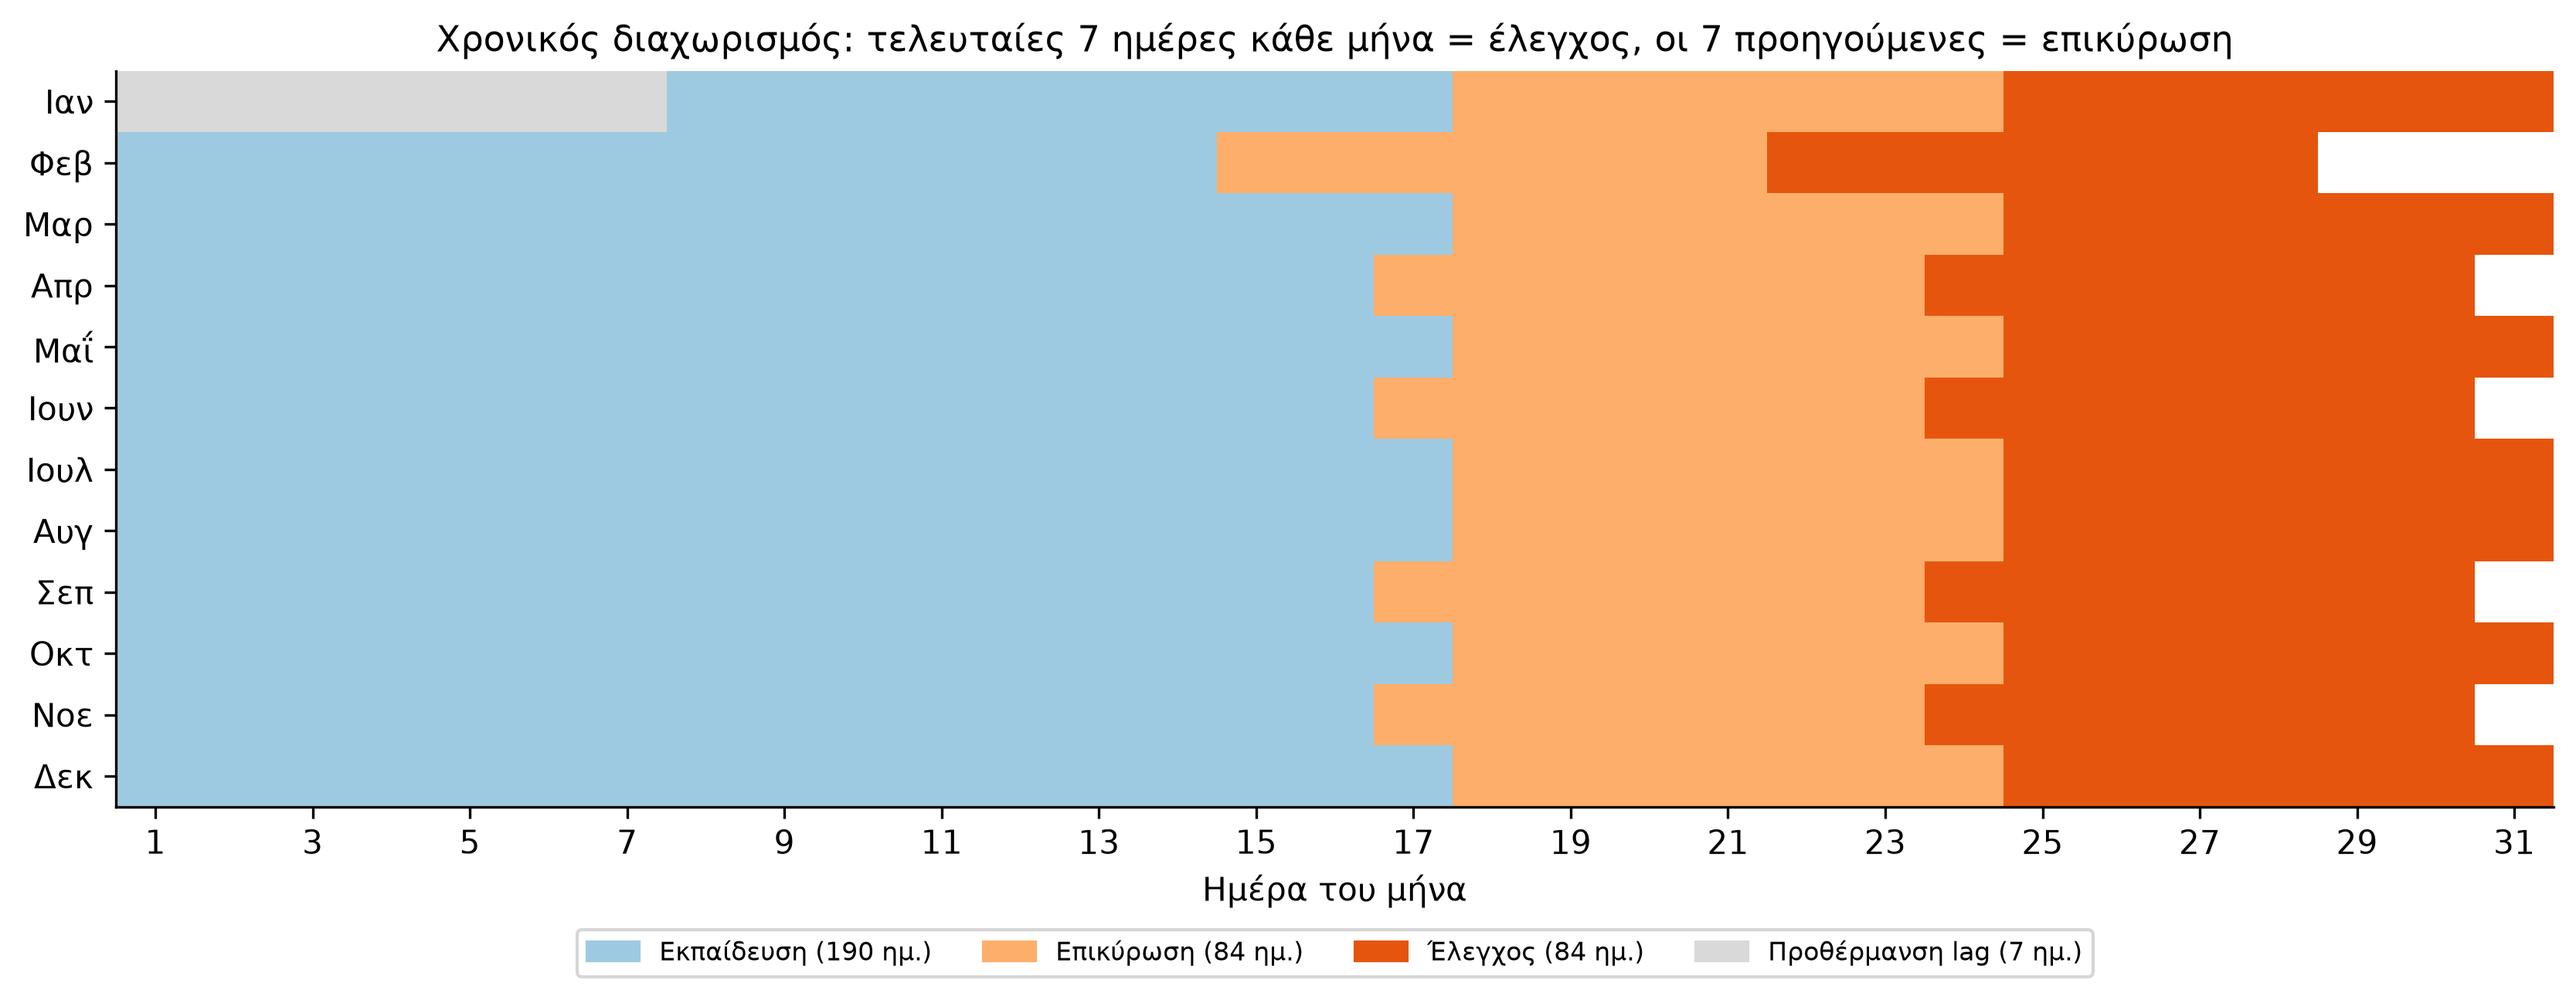
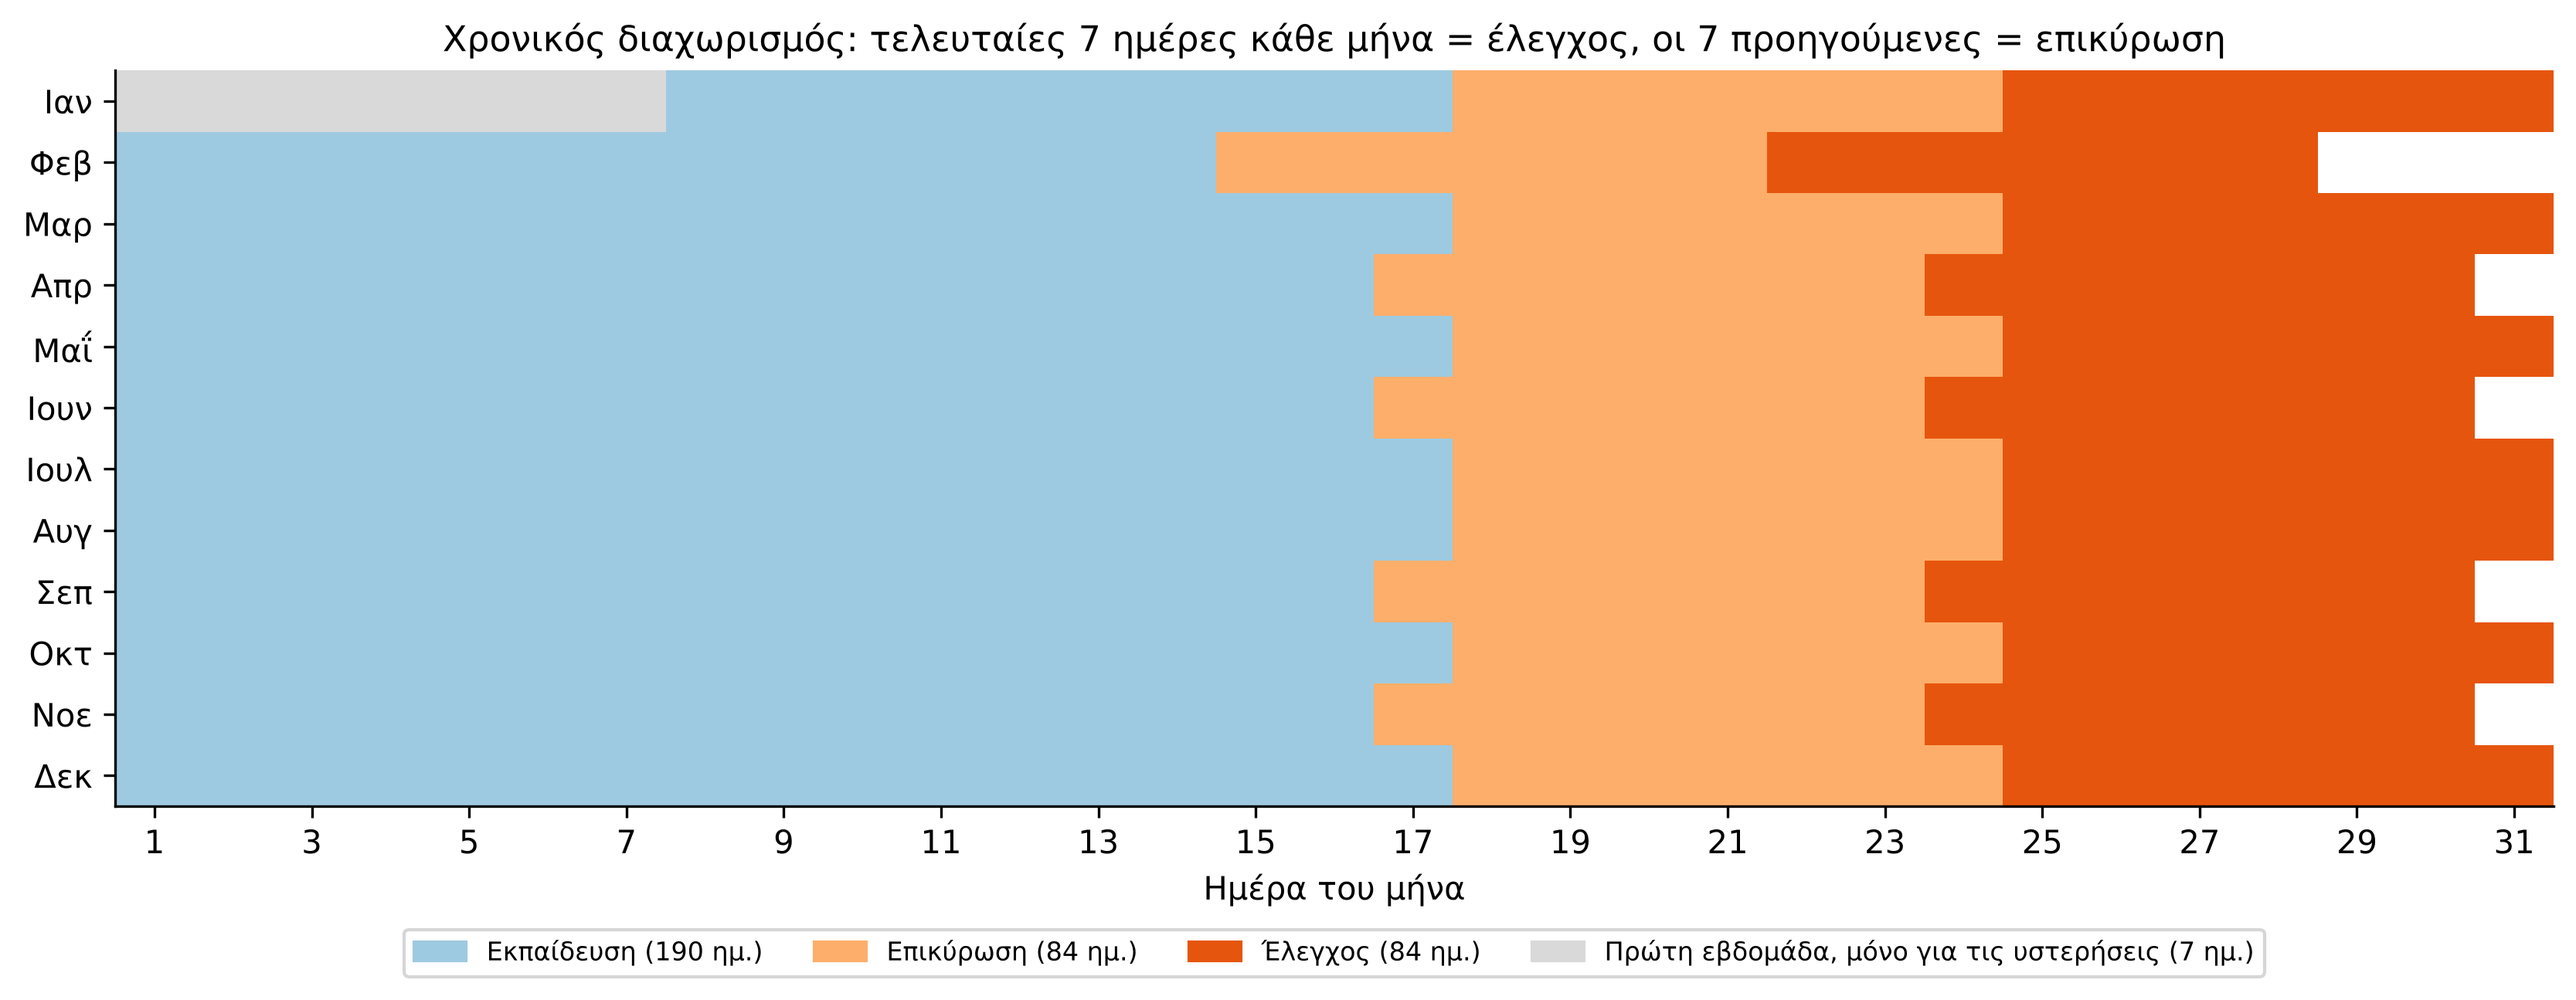
Ορολογία ετικετών διαγραμμάτων

diff --git a/v2/07_FIGURES_v2.py b/v2/07_FIGURES_v2.py
@@ -307,14 +307,14 @@ def fig_5_0_climate_check():
         ax.set_title(f"{TYPE_GR[dtype]}: R² {gr(r['R²'], 3)}, CV(RMSE) {gr(r['CV(RMSE) (%)'], 1)}%, "
                      f"NMBE {gr(r['NMBE (%)'], 1)}%", fontsize=9)
         ax.set_xlabel("Ετήσια EUI 2018 NREL (kWh/m²·έτος)")
-        ax.set_ylabel("Ετήσια EUI μοντέλου καιρού (kWh/m²·έτος)")
+        ax.set_ylabel("Ετήσια EUI μοντέλου σεναρίων (kWh/m²·έτος)")
         gr_axis(ax, "both")
     # legend of the city colours (one entry per city)
     from matplotlib.lines import Line2D
     h = [Line2D([], [], marker="o", ls="", color=ZONE_COLORS[C.CITY_ZONE[c]],
                 label=f"{c} ({C.CITY_ZONE[c]})") for c in C.CITIES]
     axes[0].legend(handles=h, fontsize=8, loc="upper left")
-    fig.suptitle("Έλεγχος του μοντέλου καιρού (χωρίς lags) πριν από τα κλιματικά σενάρια")
+    fig.suptitle("Έλεγχος του μοντέλου κλιματικών σεναρίων (χωρίς υστερήσεις) πριν από τα σενάρια")
     save_fig(fig, "fig_5_0_climate_model_check.png")
 
 

diff --git a/v2/05_EDA_v2.py b/v2/05_EDA_v2.py
@@ -356,7 +356,7 @@ def fig_split():
     ax.legend(handles=[Patch(color=cmap(0), label=f"Εκπαίδευση ({int(n.get(0, 0))} ημ.)"),
                        Patch(color=cmap(1), label=f"Επικύρωση ({int(n.get(1, 0))} ημ.)"),
                        Patch(color=cmap(2), label=f"Έλεγχος ({int(n.get(2, 0))} ημ.)"),
-                       Patch(color=cmap(3), label="Προθέρμανση lag (7 ημ.)")],
+                       Patch(color=cmap(3), label="Πρώτη εβδομάδα, μόνο για τις υστερήσεις (7 ημ.)")],
               loc="upper center", bbox_to_anchor=(0.5, -0.15), ncol=4, fontsize=8)
     ax.set_title(f"Χρονικός διαχωρισμός: τελευταίες {C.TEST_DAYS} ημέρες κάθε μήνα = έλεγχος, "
                  f"οι {C.VAL_DAYS} προηγούμενες = επικύρωση")
